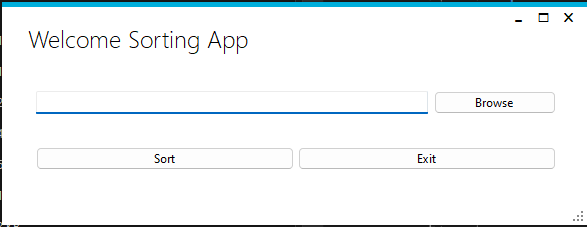
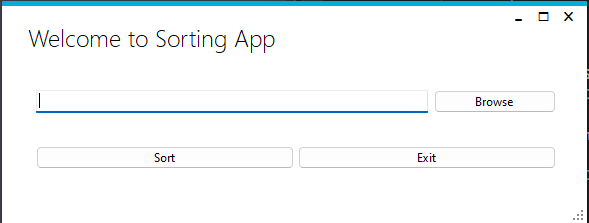
Better pic

Changed region(s): [[0.0, 0.0, 1.0, 1.0], [0.0613, 0.6457, 0.9506, 0.7534], [0.0613, 0.4036, 0.9506, 0.5112]]

diff --git a/FileSorting/Form1.cs b/FileSorting/Form1.cs
@@ -22,7 +22,7 @@ namespace FileSorting
             string path = PathText.Text.Trim();
             if (!string.IsNullOrEmpty(path))
             {
-                Sorting fileSorting= new Sorting(path);
+                Sorting fileSorting = new Sorting(path);
                 fileSorting.RunTheApp();
                 MessageBox.Show("Files sorted successfully!");
             }

diff --git a/FileSorting/Form1.Designer.cs b/FileSorting/Form1.Designer.cs
@@ -87,7 +87,7 @@
             Controls.Add(SortBtn);
             Controls.Add(PathText);
             Name = "Form1";
-            Text = "Welcome Sorting App ";
+            Text = "Welcome to Sorting App ";
             Load += Form1_Load;
             ResumeLayout(false);
             PerformLayout();
